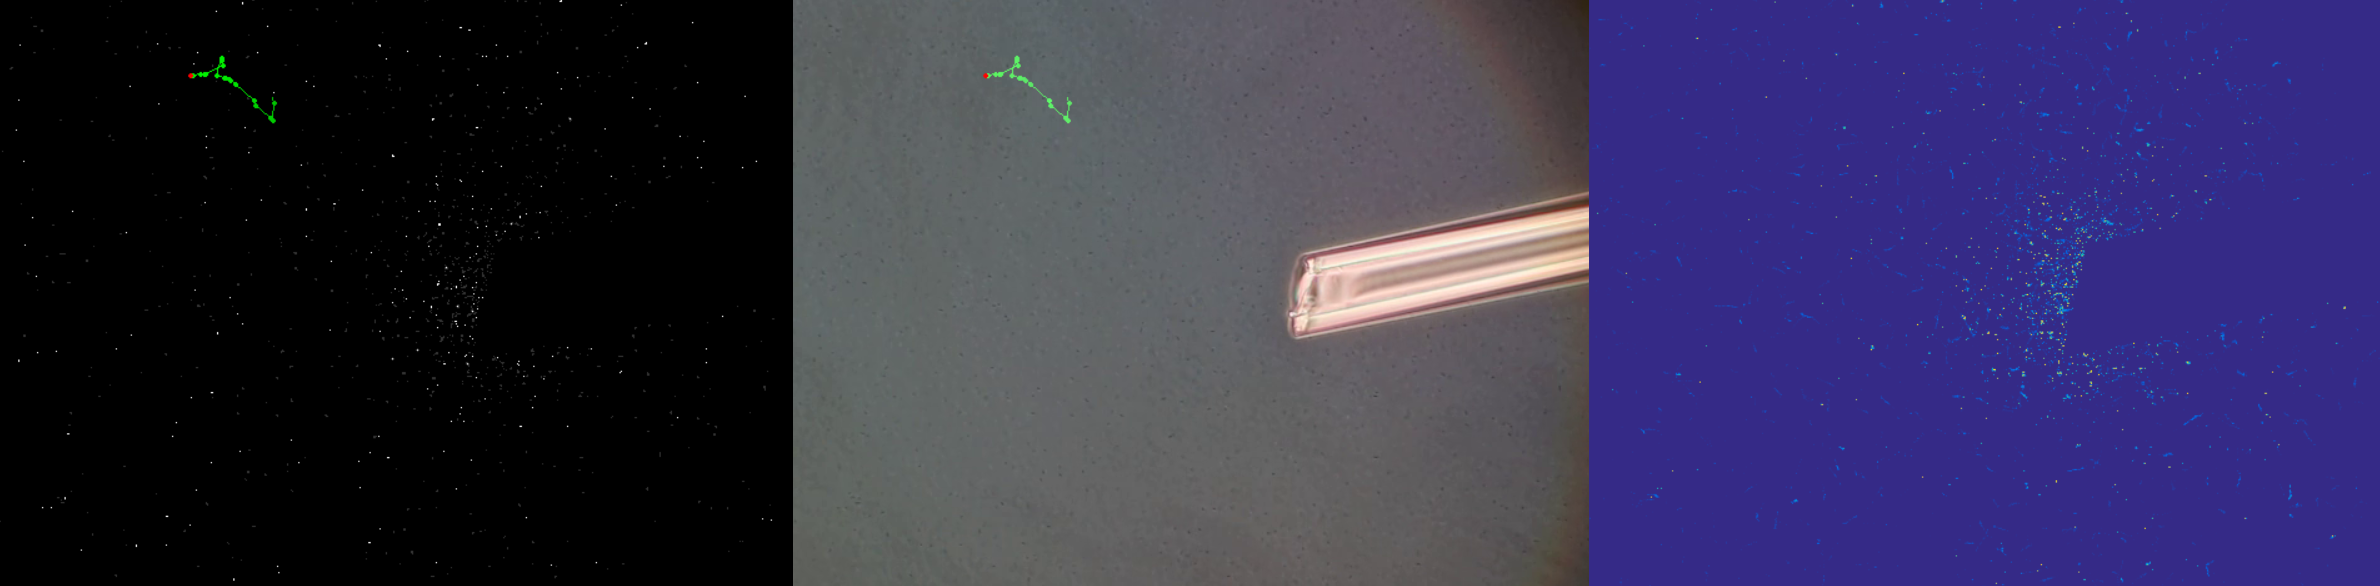
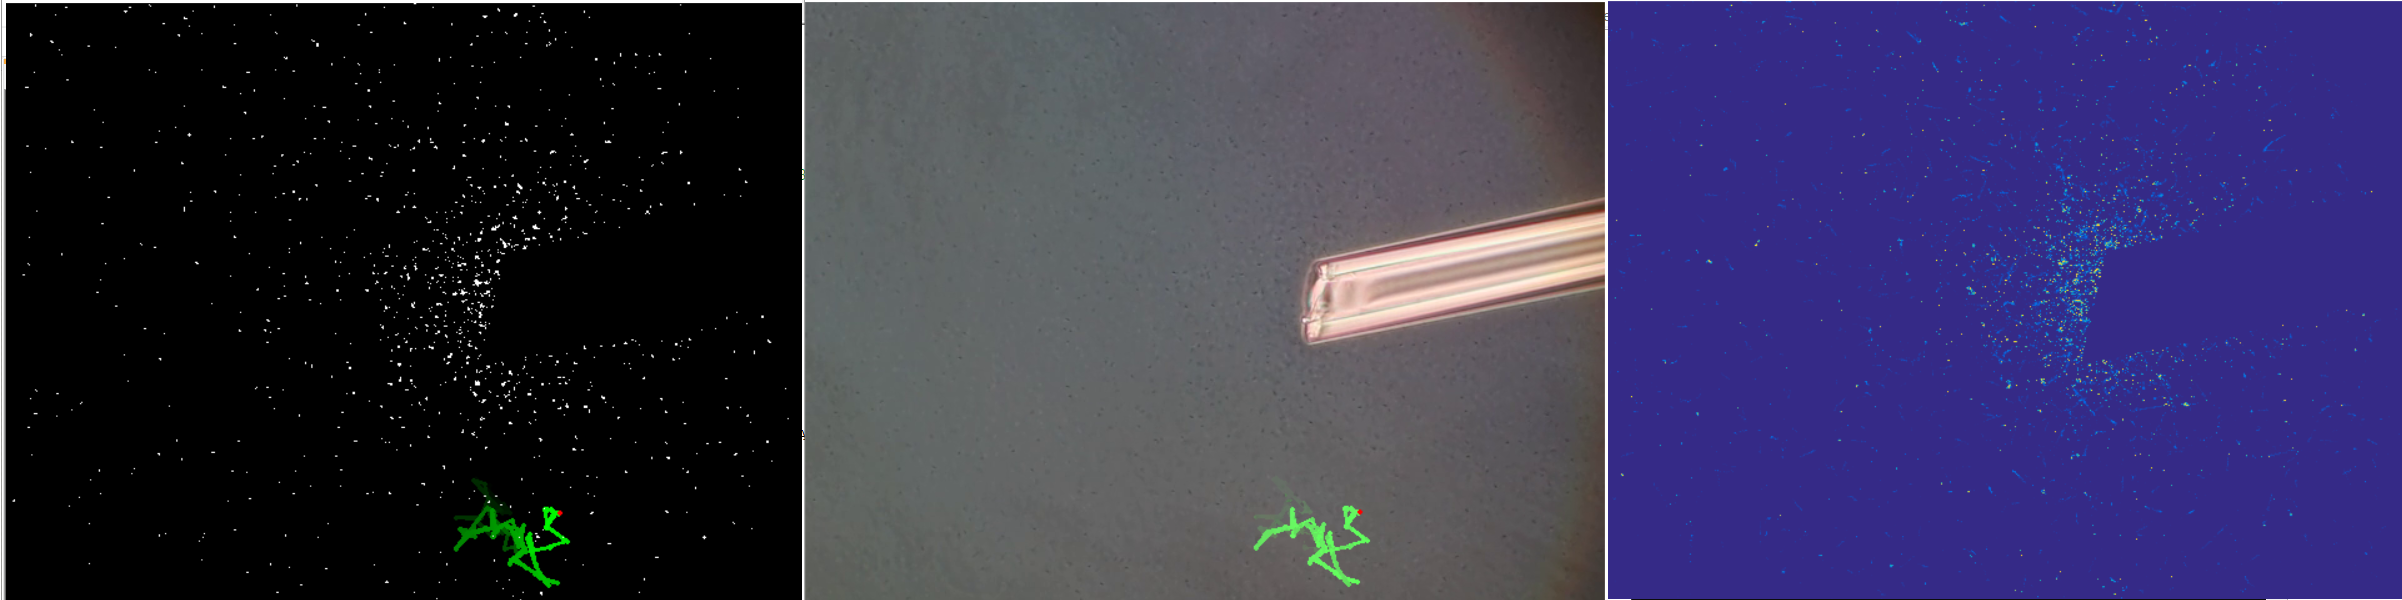
workable result, need optimization for realtime

diff --git a/trackandcount.py b/trackandcount.py
@@ -84,13 +84,13 @@ while (framenum<lastframe) and (framenum<frame_length-1):
     
     # for LOKA: is there any way to do such search faster?
     still_uget=0;
-    for i in range( len(contours_cur) ):
-        for j in range (len(contours_prev) ):
-            distance= calculate_contour_distance(contours_cur[i], contours_prev[j])
-            if (distance<1.0):
-                cv.fillPoly(cue, pts=contours_cur[i], color=(50))
-                still_uget += 1;
-                break
+    # for i in range( len(contours_cur) ):
+        # for j in range (len(contours_prev) ):
+            # distance= calculate_contour_distance(contours_cur[i], contours_prev[j])
+            # if (distance<1.0):
+                # cv.fillPoly(cue, pts=contours_cur[i], color=(50))
+                # still_uget += 1;
+                # break
     
     # tracking
     for i in range( len(contours_cur) ):
@@ -100,7 +100,7 @@ while (framenum<lastframe) and (framenum<frame_length-1):
             cx = int(M['m10']/M['m00'])
             cy = int(M['m01']/M['m00'])
             if (abs(cx-TRACK_X)<TRACK_HOP) and (abs(cy-TRACK_Y)<TRACK_HOP):
-                cv.line(path, (TRACK_X,TRACK_Y), (cx, cy), (0,255,0), 1)
+                cv.line(path, (TRACK_X,TRACK_Y), (cx, cy), (0,255,0), 2)
                 cv.rectangle(path, (cx,cy), (cx+1, cy+1), (0,255,0), 2)
                 TRACK_X= cx;
                 TRACK_Y= cy;
